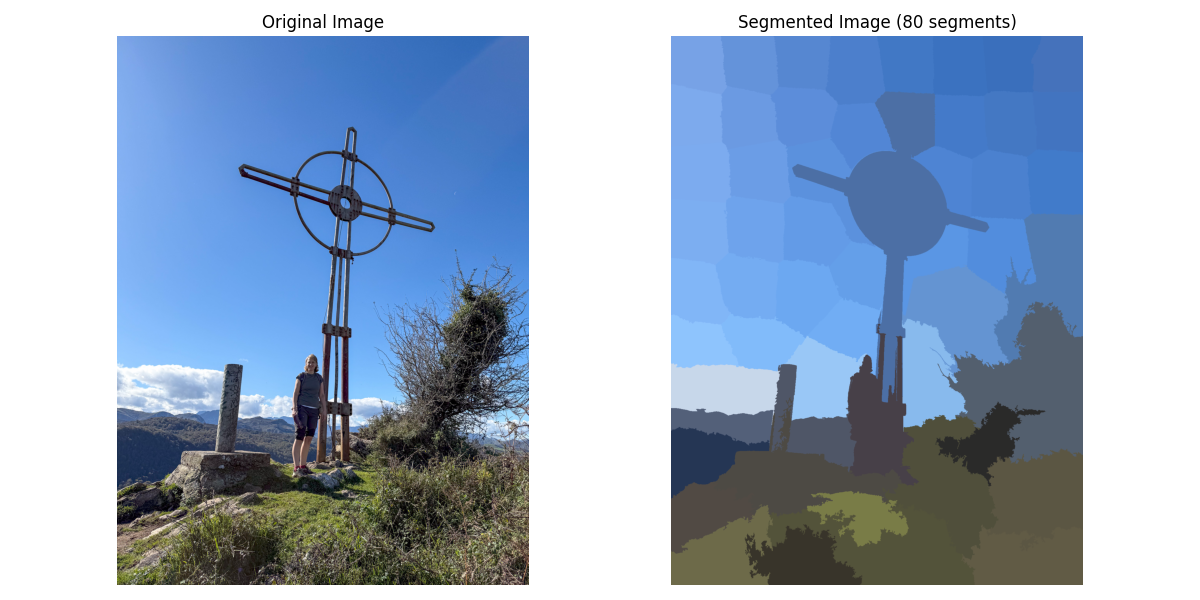
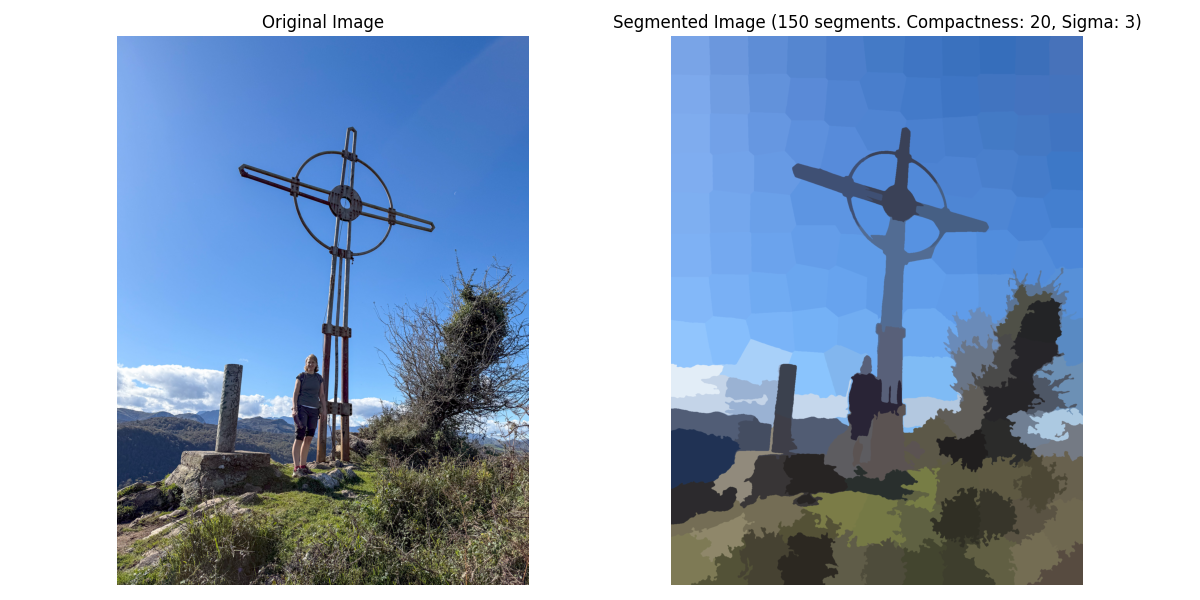
Adjust Compactness and Sigma

Changed region(s): [[0.555, 0.15, 0.925, 0.99], [0.4933, 0.03, 0.9558, 0.06], [0.6783, 0.93, 0.74, 0.99]]

diff --git a/simple_image_features/visual_segmentation.py b/simple_image_features/visual_segmentation.py
@@ -8,7 +8,7 @@ load_dotenv()
 
 image_directory = os.getenv('IMAGE_DIR')
 
-def segment_and_view_image(image_path, n_segments=100):
+def segment_and_view_image(image_path, n_segments=100, compactness=10, sigma=2):
     """
     Segment an image using SLIC superpixels and display both original and segmented images.
     
@@ -24,7 +24,7 @@ def segment_and_view_image(image_path, n_segments=100):
         img = img.astype('float') / 255
 
     # Apply SLIC segmentation
-    segments = segmentation.slic(img, n_segments=n_segments, compactness=10, sigma=1)
+    segments = segmentation.slic(img, n_segments=n_segments, compactness=compactness, sigma=sigma)
     
     # Create segmented image
     segmented_img = color.label2rgb(segments, img, kind='avg')
@@ -37,7 +37,7 @@ def segment_and_view_image(image_path, n_segments=100):
     ax1.axis('off')
     
     ax2.imshow(segmented_img)
-    ax2.set_title(f'Segmented Image ({n_segments} segments)')
+    ax2.set_title(f'Segmented Image ({n_segments} segments. Compactness: {compactness}, Sigma: {sigma})')
     ax2.axis('off')
     
     plt.tight_layout()
@@ -47,4 +47,4 @@ def segment_and_view_image(image_path, n_segments=100):
 if __name__ == "__main__":
     image_path = "cross_jane.jpg"
     image_path = f"{image_directory}/{image_path}"
-    segment_and_view_image(image_path, n_segments=80)
+    segment_and_view_image(image_path, n_segments=150, compactness=20, sigma=3)
